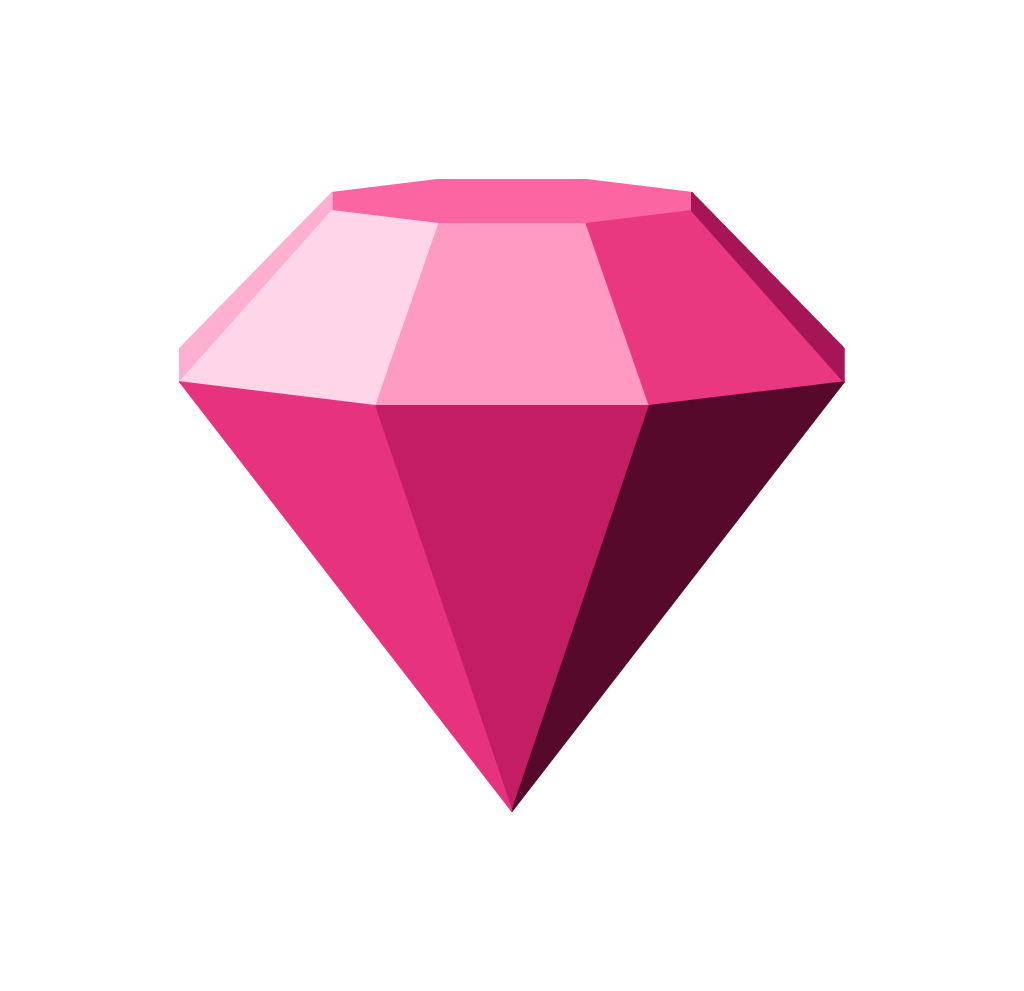
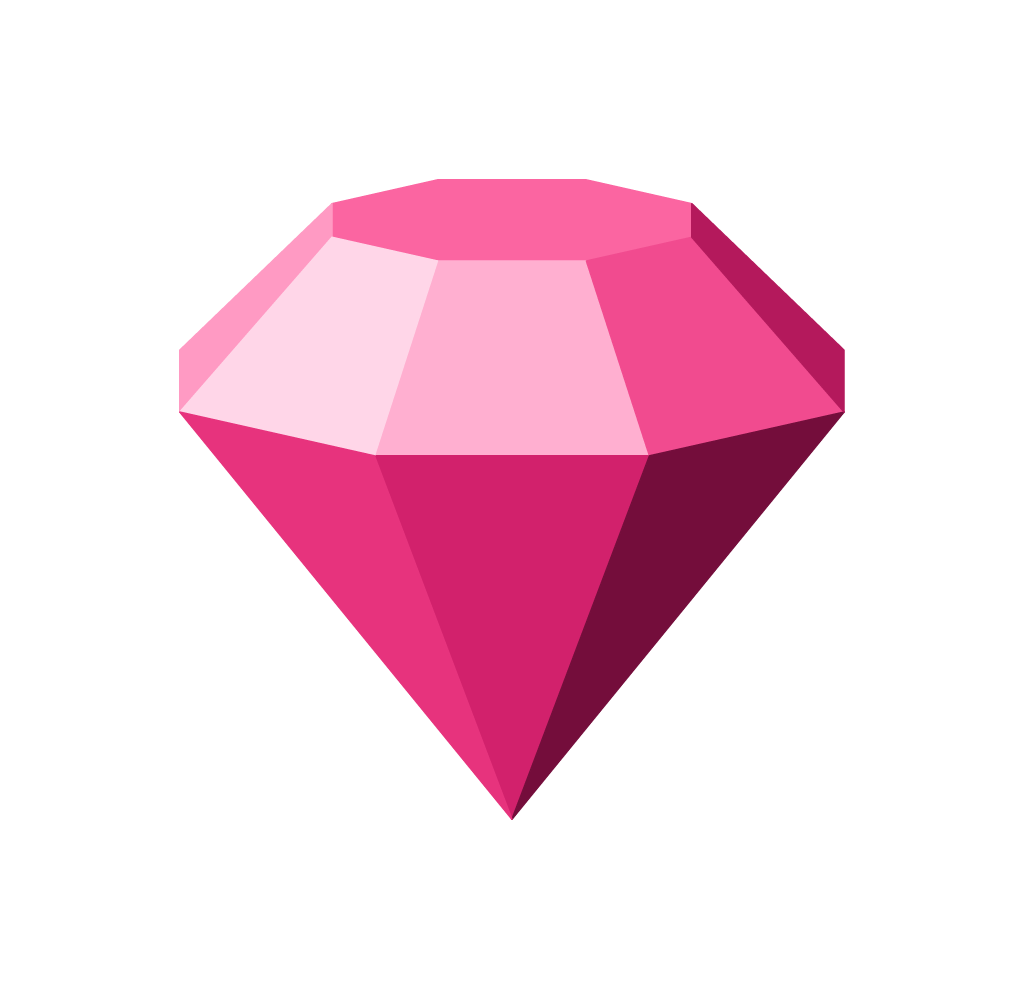
Default to pitch 13 and lightAngle -40
The default mark is now what the playground showed with
?pitch=13&lightAngle=-40: seen a little more from above, lit a little
more from the front. Regenerated diamond.svg, the PNGs and
animations/*.svg.

Claude-Session: https://claude.ai/code/session_012cMPy9HCbyE1ZCZ2bmsnZ3

diff --git a/default.ts b/default.ts
@@ -32,7 +32,7 @@ export const DEFAULTS: Required<Omit<DiamondParams, "onWarn">> = {
   pavilionHeight: 300,
   sides: 8,
   cut: "simple",
-  pitch: 7,
+  pitch: 13,
   yaw: 0,
   gap: 0,
   cornerRadius: 0,
@@ -43,7 +43,7 @@ export const DEFAULTS: Required<Omit<DiamondParams, "onWarn">> = {
   reflections: 1,
   gradient: "flat",
   shading: 1,
-  lightAngle: -50,
+  lightAngle: -40,
   lightElevation: 35,
   colorFlow: false,
   colorFlowDuration: 6,
